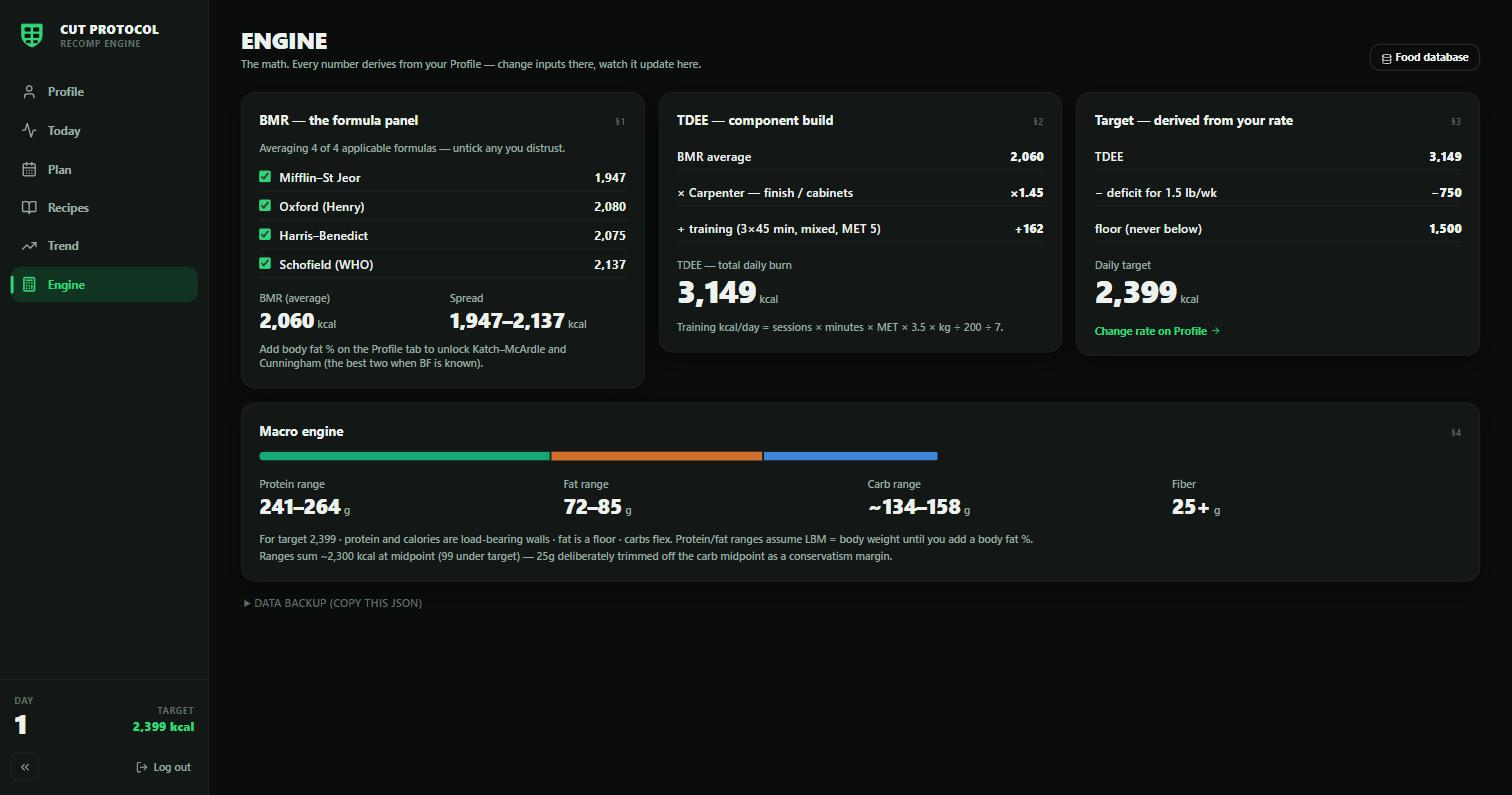
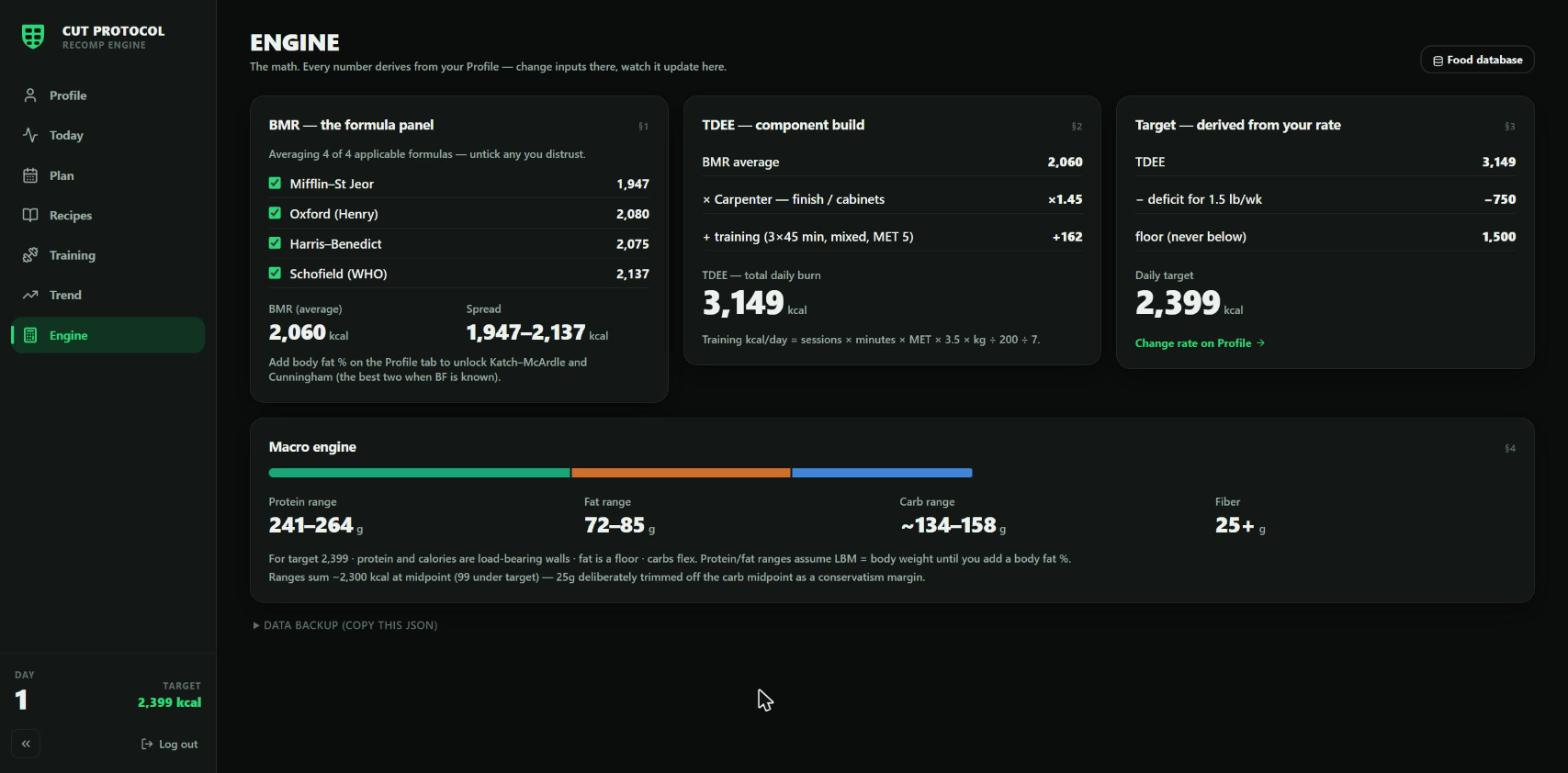
Phase 9: public release + showcase
- Final pre-public audit: all secret values, seed creds, personal docs,
  and databases confirmed absent from every commit; roadmap line leaking
  a local username/path reworded (and scrubbed from history separately)
- README rewritten as an honest work-in-progress project page: the
  problem, what the app does, status (works / rough / ideas), 4 fresh
  screenshots, plain-language engine explainer, about note, rights notice
- docs/linkedin-kit.md: understated copy for Projects, About, a
  what-I-have-been-working-on post, and a Featured caption
- assets/social-preview.png (1280x640) for the GitHub social card
- Repo description + topics set; profile README repo created separately

diff --git a/README.md b/README.md
@@ -1,118 +1,85 @@
-<img src="assets/icon/png/icon-128.png" width="96" height="96" align="left" alt="Cut Protocol — shield badge icon">
+<img src="assets/icon/png/icon-128.png" width="96" height="96" align="left" alt="Cut Protocol shield icon">
 
 # Cut Protocol
 
 [![CI](https://github.com/AlbertanCoder/cut-protocol/actions/workflows/ci.yml/badge.svg)](https://github.com/AlbertanCoder/cut-protocol/actions/workflows/ci.yml)
 
-A cutting-focused nutrition coach — calibrated calorie targets, AI-assisted weekly meal planning, and honest weigh-in trend tracking.
+A nutrition app I'm building on the side. Work in progress — this is a project page, not a product launch.
 
 <br clear="left">
 
-> **Branding:** the shield-badge mark (a geometric six-pack inside a shield, athletic green `#2FD576` on charcoal) lives in `assets/icon/` — SVG masters (`cutprotocol-outline.svg` for 48px+, inverted `cutprotocol-solid.svg` for small sizes), the rendered PNG set, and the multi-size `CutProtocol.ico` at the repo root that Electron and the Windows build consume. The in-app mark is `frontend/src/components/ui/CutMark.jsx`.
+## The problem
 
-## What it does
+Most people who decide to lose weight don't fail because they're lazy. They fail because dieting asks them to do things nobody taught them: figure out how many calories they actually burn, translate that into a daily target, split it into protein, fat, and carbs, and then somehow turn those numbers into real meals — every day, indefinitely. Every step is either confusing or tedious, so people guess, get inconsistent results, and quit.
 
-Cut Protocol is built for someone running a calorie deficit who wants the math shown, not hidden. Once you're logged in, it:
+## What Cut Protocol does about it
 
-- Computes your BMR from **six independent formulas** (Mifflin–St Jeor, Oxford/Henry, Harris–Benedict, Schofield/WHO, plus Katch–McArdle and Cunningham once you supply a body-fat %) and averages the applicable ones — with per-formula exclude toggles and the spread shown, rather than trusting any single equation.
-- Builds TDEE from components you can see: BMR × a 36-occupation activity multiplier + MET-based training calories. Your calorie target is **derived** — TDEE minus the deficit your chosen rate of loss needs, clamped to a hard safety floor — and re-computes automatically as your weigh-ins move.
-- Generates a full week of meals from a 600+ recipe library using a deterministic solver: three scored candidates per day, portion scaling, honest match percentages, per-slot swap with three alternates, slot locking, and a plain-language diagnosis whenever your targets are genuinely out of reach (it names the binding constraint — it never silently misses).
-- Filters every recipe, plan, and AI generation through your dietary style (9 styles) and allergy checkboxes before anything reaches you. Allergy filtering is zero-tolerance and is never relaxed by a suggestion.
-- Imports recipes from the web: paste a URL, it reads the site's schema.org markup, converts amounts to grams (flagging estimates honestly), matches ingredients to the validated food database, and lets you review before anything saves.
-- Generates new recipes with AI (Anthropic API) that must pass the same nutrition validator as every other food before they can be saved.
-- Builds a real grocery list from your week: raw/dry purchase quantities (not just as-cooked grams), practical retail units, store-section grouping, and rough CAD cost estimates that admit their coverage.
-- Tracks daily weigh-ins, smooths them into a 7-day trend, verdicts the pace against your chosen band, and projects a goal date from your measured rate.
-- Runs as a normal web app, or as a packaged Windows desktop app via Electron.
+You punch in your stats (height, weight, age), what you do for work, and how you train. It calculates your calories and macros — using several published BMR formulas averaged together rather than trusting any single one, with the math shown on screen so you can check it. Then it generates weekly meal plans and recipes that actually fit your numbers, builds the grocery list, and tracks your weigh-ins against the plan so you can see whether it's working.
 
-## Features
+The design bias throughout is honesty over polish: if the meal solver can't hit your targets, it says so and names the constraint instead of quietly missing. If a number is an estimate, it's labeled as one.
 
-- Six-formula BMR engine (averaged, excludable, spread shown) + occupation/training TDEE build
-- Derived calorie target with sex-based + user-set safety floors; unsafe rates require explicit acknowledgment
-- Weekly meal-plan solver: scored day candidates, swaps with alternates, locks, batch-cooking mode, cuisine/protein/budget steering
-- Recipe library grouped by cuisine / meal type / protein with search and protein-density sort
-- Recipe URL importer (schema.org) with honest unit-conversion flags — no paid API
-- AI recipe generation gated by the food-data validator; loud per-generation allergen override that auto-resets
-- Dietary style + allergy hard-filtering applied server-side before recipes ever reach you
-- Cart that totals macros, feeds today's plan, and produces its own grocery list
-- Grocery lists with practical purchase units, store sections, checkboxes, and labeled cost estimates
-- Weigh-in log with 7-day rolling average, rate verdicts, and goal-date projection
-- USDA FoodData Central as the nutrition source of truth, with a validated 850+ food database
-- Windows desktop build via Electron, alongside the standard web app
+## Where it's at
 
-## Tech stack
+**Works today**
 
-- **Backend:** Node.js, Express 5, Prisma 6 (SQLite in dev), JWT auth
-- **Frontend:** React 19, Vite 8, Tailwind CSS 4, Recharts
-- **Desktop:** Electron + electron-builder (Windows installer)
-- **AI:** Anthropic API for recipe generation
-- **Nutrition data:** USDA FoodData Central API
+- Calorie/macro engine: six BMR formulas (averaged, individually excludable, spread shown), TDEE built from a 36-occupation activity table plus training load, and a daily target derived from your chosen rate of loss — clamped to a safety floor, recomputed as your weigh-ins move
+- Weekly meal-plan solver: scored day candidates against your calories and protein, portion scaling, swap-with-alternates, slot locking, and plain-language diagnosis when targets are genuinely out of reach
+- Recipe library (600+): grouped browsing, search, protein-density sort; dietary styles and allergy filters applied server-side before anything reaches you
+- Recipe import from the web (reads standard schema.org markup, converts amounts to grams with estimates flagged) and AI-assisted recipe generation, both gated by the same nutrition validator as every other food
+- Grocery lists with raw-purchase quantities, store sections, and labeled rough cost estimates
+- Daily weigh-in tracking with a 7-day trend, pace verdicts, and a projected goal date
+- Runs as a web app or a packaged Windows desktop app (Electron)
 
-## Setup & running locally
+**Rough / early**
 
-Prereqs: Node.js and npm.
+- Training: a v1 scaffold behind a feature flag — it matches your days, equipment, and experience to one of four sensible workout templates. Deliberately simple; real programming depth is future work
+- Cost estimates cover common staples only; the price table is thin
+- Single-user by design right now — auth exists, but this is built as a personal tool first
 
-**1. Clone and install dependencies:**
+**Ideas for later** (ideas, not promises)
 
-```
-git clone <repo-url>
-cd cut-protocol
-npm install
-cd backend && npm install
-cd ../frontend && npm install
-```
-
-**2. Configure the backend:**
-
-```
-cd backend
-cp .env.example .env
-```
-
-Fill in `backend/.env`:
-- `JWT_SECRET` — generate one with `node -e "console.log(require('crypto').randomBytes(32).toString('hex'))"`
-- `USDA_API_KEY` — free key from [fdc.nal.usda.gov/api-key-signup](https://fdc.nal.usda.gov/api-key-signup)
-- `ANTHROPIC_API_KEY` — from [console.anthropic.com](https://console.anthropic.com)
-- `SEED_EMAIL` / `SEED_PASSWORD` — your own login, used once by the seed step below
-
-**3. Set up the database and seed an account:**
-
-```
-npx prisma generate
-npx prisma migrate deploy
-npm run seed
-npm run seed:recipes
-```
-
-**4. Run it (two terminals):**
-
-```
-cd backend && npm run dev      # :3001
-cd frontend && npm run dev     # :5173, proxies /api to :3001
-```
-
-Open `http://localhost:5173` and log in with the account you just seeded.
-
-### Desktop build (optional)
-
-From the repo root: `npm install`, then `npm run dist` builds a Windows installer via Electron.
+- A proper food diary (logging what you actually ate, not just what was planned)
+- Smarter workout suggestions
+- Barcode scanning for packaged foods
+- Maybe a store release someday, if it ever feels ready
 
 ## Screenshots
 
-**Today** — daily target vs. planned macros, weigh-in log, and a rate-of-loss verdict.
-![Today tab](screenshots/today.jpg)
+**Today** — planned intake vs. target, weigh-in, and the trend at a glance.
+![Today](screenshots/today.jpg)
 
-**Trend** — 7-day weight average, projected goal date, and body-fat estimate.
-![Trend tab](screenshots/trend.jpg)
+**Plan** — the weekly meal plan: steer the solver, swap meals, build the grocery list.
+![Plan](screenshots/plan.jpg)
 
-**Engine** — the formula panel, TDEE component build, and the derived target. Every number shows its work.
-![Engine tab](screenshots/engine.jpg)
+**Engine** — the math, shown: every formula, the TDEE build, and where the daily target comes from.
+![Engine](screenshots/engine.jpg)
 
-**Plan** — the solver-fit weekly meal plan with steering filters, swaps, locks, and the sectioned grocery list.
-![Plan tab](screenshots/plan.jpg)
+**Training** — the v1 template scaffold.
+![Training](screenshots/training.jpg)
 
-**Recipes** — the grouped library, URL importer, AI generation, and cart.
-![Recipes tab](screenshots/recipes.jpg)
+## How the engine works, in plain language
+
+1. **BMR** — what your body burns at rest. There are several published formulas for estimating it and they disagree, so Cut Protocol calculates the ones that apply to you (four by default; two more unlock if you know your body-fat %) and averages them, showing the spread.
+2. **TDEE** — what you burn in a day. BMR gets multiplied by an activity factor picked from a table of real occupations (a framer burns more than an accountant), then training calories are added from how often and how long you work out.
+3. **Target** — TDEE minus the deficit for the loss rate you chose. One pound a week needs about a 500-calorie daily deficit. The result is clamped to a safety floor the app will not go below, and if you pick an aggressive rate it makes you acknowledge that explicitly.
+4. **Macros** — protein is set high to protect muscle in a deficit, fat gets a floor, carbs flex to fill what's left. Shown as ranges, not false-precision single numbers.
+5. **The loop** — you weigh in daily, the app smooths it into a 7-day average, compares your measured rate against the plan, and re-derives the target as your weight changes. Your actual data beats the model's prediction.
+
+## Tech stack
+
+- **Backend:** Node.js, Express 5, Prisma 6 (SQLite), JWT auth
+- **Frontend:** React 19, Vite 8, Tailwind CSS 4, Recharts
+- **Desktop:** Electron + electron-builder (Windows installer)
+- **Nutrition data:** USDA FoodData Central (source of truth), with a validated 850+ food database
+- **AI:** Anthropic API for recipe generation (validator-gated)
+- **Tests/CI:** node:test (130 tests), oxlint, GitHub Actions
+
+## About this project
+
+I work construction. This is what I do at night and on days off — I find it genuinely fascinating what one person can build now with AI development tools, and this repo is me finding out. It's built in the open, phase by phase (the commit history is the honest record), and it will be a work in progress for a while.
+
+Not affiliated with any company. Not medical advice — it's a calculator and a meal planner; talk to a professional about your health.
 
 ---
 
-© 2026 Shad. All rights reserved. This project is shared for demonstration purposes; please don't reuse the code without permission.
+© 2026 Shad. All rights reserved. Shared for demonstration purposes — please don't reuse the code without permission.

diff --git a/docs/linkedin-kit.md b/docs/linkedin-kit.md
@@ -1,0 +1,65 @@
+# LinkedIn kit — Cut Protocol
+
+Copy-paste material. Tone throughout: understated, honest, no selling.
+Everything below sticks to facts that are true of the repo as of July 2026.
+
+---
+
+## 1. Projects section entry
+
+**Cut Protocol — nutrition app (work in progress)**
+
+Most people who try to diet get stuck on the math: what their calories should
+be, how to split macros, and how to turn those numbers into actual meals. Cut
+Protocol is my attempt at solving that — enter your stats and activity, it
+calculates your targets with the math shown, then generates weekly meal plans
+and grocery lists that fit them. Side project, built nights and days off;
+very much still in progress.
+
+---
+
+## 2. About-section line
+
+Construction by day; at night I build software for fun — currently a
+nutrition app that does the diet math people usually give up on.
+
+---
+
+## 3. The post ("what I've been working on" — not a launch)
+
+I work construction, and on my nights and days off I've been building
+something.
+
+A while back I noticed that when people around me tried to diet, they didn't
+quit because of willpower. They quit because of the homework: figuring out
+their calories, splitting macros, planning meals that fit the numbers, every
+single day. Nobody teaches that, and the apps that do it mostly hand you a
+number and wish you luck.
+
+So I've been building my own take on it. It's called Cut Protocol. You put in
+your stats, your job, and how you train — it calculates your calories using
+several published formulas (and shows you the math instead of hiding it),
+then generates a weekly meal plan and grocery list that actually fit your
+targets. If it can't hit your numbers, it tells you why instead of quietly
+missing.
+
+Honest caveats: it's a side project, it's early, and it'll be a work in
+progress for a while. I'm not launching anything or selling anything — I just
+think it's genuinely amazing what one person can build these days with AI
+dev tools, and this is me finding out on a problem I care about.
+
+Repo (code and screenshots): https://github.com/AlbertanCoder/cut-protocol
+
+#sideproject #nutrition #buildinpublic
+
+*(Attach 1–2 screenshots with the post — suggest `screenshots/today.jpg` and
+`screenshots/engine.jpg`. Three hashtags kept deliberately; drop
+#buildinpublic if it feels too internet-y.)*
+
+---
+
+## 4. Featured-section caption
+
+Cut Protocol — a nutrition app I'm building on nights and days off. It does
+the diet math (calories, macros, honest formulas) and turns it into weekly
+meal plans. Work in progress.

diff --git a/CLAUDE.md b/CLAUDE.md
@@ -281,6 +281,29 @@ challenged. Never suggest intake below the safety floor.
   with HMR — both states confirmed in the sidebar. 130 tests green
   (10 new generator tests incl. equipment-floor and trim-never-mains
   guards), oxlint + vite build clean.
+- 2026-07-18 · **Phase 9 complete — repo PUBLIC.** Final pre-public audit
+  (18 commits, full history): JWT/Anthropic/USDA key values, seed
+  email+password, any sk-ant pattern, .env, dev.db, personal docs
+  (AUDIT/PABLO/RECOMP archive), test passwords — all confirmed never
+  committed. Two notes: old constants.js (history-only, deleted Phase 3)
+  is self-labeled demo data naming nobody; roadmap/00-synthesis.md row 21
+  leaked the Windows username + an off-repo personal file path — reworded
+  in tree AND scrubbed from all history via git-filter-repo replace-text
+  (Shad chose rewrite-then-flip; SHAs changed, force-pushed all refs).
+  Showcase: README rewritten as a work-in-progress project page (problem →
+  what it does → status: works today / rough / ideas-not-promises → 4
+  fresh 1568px screenshots incl. Training → plain-language engine
+  explainer → tech stack → about note: construction by day, built with AI
+  dev tools, not medical advice → rights notice). docs/linkedin-kit.md:
+  Projects entry, About line, understated "what I've been working on" post
+  (no launch language, 3 hashtags), Featured caption.
+  assets/social-preview.png (1280×640, shield + wordmark — upload manually
+  at Settings→Social preview; API can't set it). Repo description +
+  11 topics set via gh. Profile README repo AlbertanCoder/AlbertanCoder
+  created + pushed (construction by day / builds at night / Cut Protocol
+  link); profile PIN is manual (Customize your pins — API has no
+  mutation). Visibility flipped to PUBLIC via gh after Shad's confirm.
+  THE 9-PHASE OVERHAUL IS COMPLETE.
 
 ## Archive
 

diff --git a/roadmap/00-synthesis.md b/roadmap/00-synthesis.md
@@ -38,7 +38,7 @@ doc's FIXED/OPEN calls as accurate as of this read, not permanent.
 | 18 | No centralized error-handling middleware; only 2 of 7 route files wrap Prisma calls in try/catch — unhandled routes leak generic framework 500s instead of a clean API error shape | LOW | **OPEN** | Route files generally | PABLO_REVIEW.md only |
 | 19 | `ingredientResolver.js:35` does a full `Food.findMany()` table scan + in-JS token-similarity match per ingredient, per AI-generated draft — fine at 968 rows, will not scale | LOW (performance, not correctness) | **OPEN** | `ingredientResolver.js:35` | PABLO_REVIEW.md only |
 | 20 | Two "Almond..." Food rows (`Almond Essence`, `Almond Flour`, `Almonds`) show `0` kcal but identical non-zero macros (26.2P/50.2F/16.2C) — internally inconsistent, likely a bad/collided row from USDA resolution | LOW (data-quality, isolated finding, not chased further) | **OPEN** | `Food` table / `ingredientResolver.js` path | AUDIT.md only (flagged for a future pass, not investigated) |
-| 21 | Unrelated live-looking Anthropic API key in plaintext at `[a personal file outside this repo]` — outside this repo | INFO (owner action, not app defect) | **OPEN** (owner action item) | Outside repo | AUDIT.md only |
+| 21 | Unrelated API key found in plaintext in a personal file outside this repo — flagged to the owner directly (no key material ever entered this repo) | INFO (owner action, not app defect) | **OPEN** (owner action item) | Outside repo | AUDIT.md only |
 | 22 | Git history is essentially one big-bang initial commit (56K+ lines) plus one fix commit; all iterative development prior to that happened outside version control — no incremental record to audit | LOW (process, not code) | **OPEN** (historical, not actionable retroactively) | N/A | AUDIT.md only |
 | 23 | Cart feature (schema + `cart.js` route + 4 frontend components) is new, uncommitted, in-progress work — not part of either report's original defect scope, but is part of the current diff and should be reviewed/tested before commit | INFO | **IN-PROGRESS-ELSEWHERE** (not evaluated by either report; flagging its existence for whoever picks up next) | `backend/src/routes/cart.js`, `backend/prisma/schema.prisma`, `frontend/src/components/RecipesTab.jsx`, `frontend/src/lib/householdUnits.js` | Neither report scoped this; noted from `git status` |
 